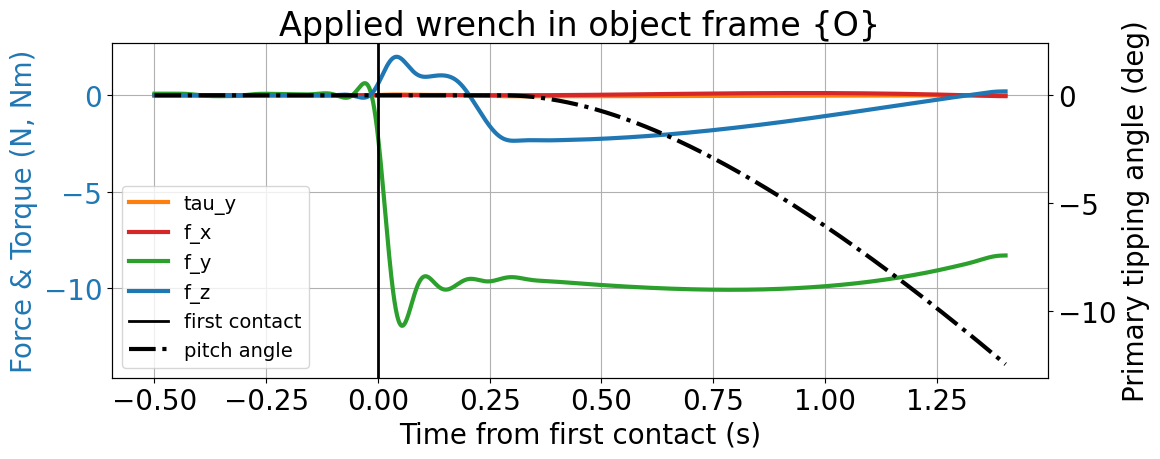
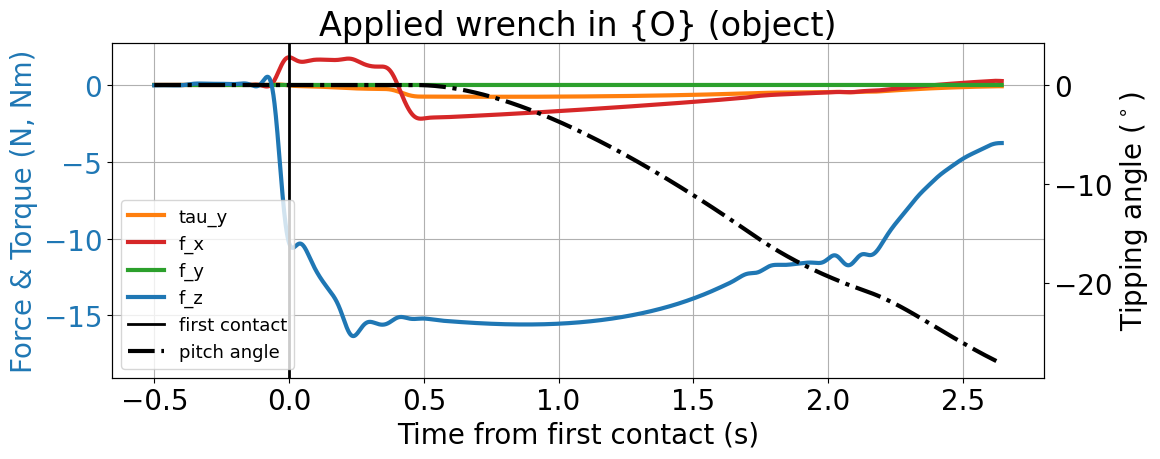
Refactor code structure for improved readability and maintainability

diff --git a/src/mujoco_irb120/common/com_estimation.py b/src/mujoco_irb120/common/com_estimation.py
@@ -1,133 +1,113 @@
 import numpy as np
-from .helper_fns import axisangle2rot, rotvec_to_rot, vec_to_unit, VecToso3
+from .helper_fns import axisangle2rot, rotvec_to_rot, Adjoint, TransInv
 
-def get_AdT_sensor_O(rot_vecs_B, p_sensor_B, p_obj_B, R_sensor_B=None):
-    """
-    Compute adjoint transform that maps a wrench from sensor frame {S} to object frame {O}.
+# def get_AdT_sensor_O(T_B_sensor: np.ndarray, T_B_obj: np.ndarray) -> np.ndarray:
+#     """
+#     Compute the batched adjoint Ad(T_O_S) that maps a wrench from sensor frame {S}
+#     to object frame {O}.
 
-    {O}, {B}, {S} are object, robot base/table/world, and sensor frames, respectively.
+#     T_B_sensor: (N,4,4) homogeneous transforms of the sensor in world frame
+#     T_B_obj:    (N,4,4) homogeneous transforms of the object in world frame
 
-    For a wrench w = [f; tau], the transformation is:
-        f_O   = R_O_S @ f_S
-        tau_O = [p_S_O]_x @ (R_O_S @ f_S) + R_O_S @ tau_S
+#     Returns: (N,6,6) adjoint matrices  Ad(T_O_S)
+#     """
+#     T_O_S = TransInv(T_B_obj) @ T_B_sensor   # (N,4,4) sensor pose in object frame
+#     return Adjoint(T_O_S)                     # (N,6,6)
 
-    giving the 6x6 matrix (Modern Robotics / standard convention):
-        Ad(T_O_S) = | R_O_S           0     |
-                    | [p_S_O]_x R_O_S  R_O_S |
-
-    where R_O_S = R_B_O.T @ R_B_S  maps vectors from {S} into {O},
-    and p_S_O is the origin of {S} expressed in {O}.
-
-    rot_vecs_B: (N,3) axis-angle rotation vectors of the object in world frame
-    p_sensor_B: (N,3) sensor origin positions in world frame
-    p_obj_B:    (N,3) object origin positions in world frame
-    R_sensor_B: (N,3,3) sensor orientation in world frame (world <- sensor columns).
-                If None, sensor axes are assumed aligned with the world frame.
-    """
-    R_B_O = rotvec_to_rot(rot_vecs_B)       # (N,3,3) world <- object
-    R_O_B = R_B_O.transpose(0, 2, 1)        # (N,3,3) object <- world  (R_B_O^T)
-
-    if R_sensor_B is None:
-        # Sensor frame coincides with world frame
-        R_O_S = R_O_B
-    else:
-        # R_O_S = R_O_B @ R_B_S : sensor-frame vectors -> world -> object
-        R_O_S = np.einsum('nij,njk->nik', R_O_B, R_sensor_B)  # (N,3,3)
-
-    # Position of sensor origin expressed in object frame
-    p_S_O = np.einsum('nij,nj->ni', R_O_B, p_sensor_B - p_obj_B)  # (N,3)
-
-    AdT_S_O = np.zeros((rot_vecs_B.shape[0], 6, 6))
-    # Upper-left:  R_O_S  (rotate force from {S} to {O})
-    AdT_S_O[:, :3, :3] = R_O_S
-    # Lower-right: R_O_S  (rotate torque from {S} to {O})
-    AdT_S_O[:, 3:, 3:] = R_O_S
-    # Lower-left:  [p_S_O]_x R_O_S  (couple term: moment arm shift)
-    AdT_S_O[:, 3:, :3] = np.einsum('nij,njk->nik', VecToso3(p_S_O), R_O_S)
-    return AdT_S_O
 
 def model_bkwd_wrench(
     w_meas_S: np.ndarray,
-    adT_sensor_O: np.ndarray,
+    T_B_sensor: np.ndarray,
+    T_B_obj: np.ndarray,
     p_finger_O: np.ndarray,
-):
+) -> np.ndarray:
     """
-    Compute 'backward' applied wrench [F; tau] IN OBJECT FRAME
-    {O}, {B}, {S} are object, robot base/table/world, and sensor frames, respectively.
+    Compute the 'backward' applied wrench [f; tau] in object frame {O}.
 
-    w_meas_S: (N,6) array of measured wrenches in sensor frame (F_x, F_y, F_z, tau_x, tau_y, tau_z)
-    adT_sensor_O: (N,6,6) array of adjoint transforms from object frame to sensor frame
-    p_finger_O: (3,) position of finger in object frame
+    {O}, {B}, {S} are object, world/base, and sensor frames respectively.
+
+    w_meas_S:   (N,6) measured wrenches in {S}  [fx fy fz tx ty tz]
+    T_B_sensor: (N,4,4) sensor poses in world frame
+    T_B_obj:    (N,4,4) object poses in world frame
+    p_finger_O: (N,3) or (3,) contact-point position in {O}
     """
-    # Transform measured wrench from sensor frame to object frame.
-    w_meas_O = np.einsum('nij,nj->ni', adT_sensor_O, w_meas_S)
+    # First get sensor pose in object frame, then get corresponding AdT
+    T_O_S = TransInv(T_B_obj) @ T_B_sensor   # (N,4,4) sensor pose in object frame
+    AdT_S_O = Adjoint(T_O_S)          # (N,6,6)
+    w_meas_O = np.einsum('nij,nj->ni', AdT_S_O, w_meas_S)    # (N,6) wrench in {O}
 
-    ## CONSTRUCT APPLIED WRENCH IN OBJECT FRAME
-    f_app_O = -w_meas_O[:, :3]
-    t_app_O = np.cross(p_finger_O, f_app_O)  # Torque applied ON object by finger is r_o_to_finger x f_app
-    w_app_O = np.hstack((f_app_O, t_app_O))  # (N,6) applied wrench on object frame
-    return w_app_O
+    f_app_O  = -w_meas_O[:, :3]                               # Newton's 3rd law
+    t_app_O  = np.cross(p_finger_O, f_app_O)                  # r × f about object origin
+    w_app_O = np.hstack((f_app_O, t_app_O))                      # (N,6)
+
+    return -w_meas_O
 
 
 def model_fwd_wrench(
-        rot_vecs: np.ndarray,
+        rot_vecs_B: np.ndarray,
         p_c_O: np.ndarray,
         mass: float,
         mu_table: float,
-        rob_vel_B: np.ndarray = None,
-        w_app_O: np.ndarray = None
+        w_O_app: np.ndarray = None
 ):
     """
     Compute 'forward' gravity + ground reaction wrench [F; tau] IN OBJECT FRAME
     {O}, {B}, {S} are object, robot base/table/world, and sensor frames, respectively.
 
     rot_vecs: (N,3) array of axis-angle rotation vectors (angle in radians)
-    w_app_O: (N,6) array of applied wrenches in object frame (F_x, F_y, F_z, tau_x, tau_y, tau_z)
-    adT_sensor_O: (N,4,4) array of adjoint transforms from object frame to sensor frame
-    rob_vel_B: (N,3) array of robot/finger velocities in robot base/world frame (v_x, v_y, v_z)
-    w_app_O: (N,6) array of applied wrenches in object frame (F_x, F_y, F_z, tau_x, tau_y, tau_z)
+    w_O_app: (N,6) array of applied wrenches in object frame (F_x, F_y, F_z, tau_x, tau_y, tau_z)
 
     p_c_O: (3,) position of object CoM in object frame
     mass: scalar mass of the object
     mu_table: scalar friction coefficient of the table
     N_table: scalar normal force magnitude from the table
     """
-    rot_vecs = np.asarray(rot_vecs, dtype=float)
-    R_B = rotvec_to_rot(rot_vecs)  # (N,3,3) object rotation in world frame
+    rot_vecs_B = np.asarray(rot_vecs_B, dtype=float)
+    R_B = rotvec_to_rot(rot_vecs_B)  # (N,3,3) object rotation in world frame
     R_B_T = R_B.transpose(0, 2, 1)  # (N,3b,3a) Transpose for inverse rotation (swaps correctly each 3x3 block)
     g_B = np.array([0, 0, -9.81])  # gravity in world/robot/table frame
-    if rob_vel_B is not None and rob_vel_B.shape != (rot_vecs.shape[0], 3):
-        if rot_vecs.shape[0] == 1 and rob_vel_B.shape == (3,):
-            rob_vel_B = rob_vel_B.reshape(1, 3)
+    n_samples = rot_vecs_B.shape[0]
+
+    if w_O_app is None:
+        f_O_app = np.zeros((n_samples, 3), dtype=float)
+    else:
+        w_O_app = np.asarray(w_O_app, dtype=float)
+        if w_O_app.ndim == 1 and w_O_app.shape[0] == 6:
+            w_O_app = w_O_app.reshape(1, 6)
+        f_O_app = w_O_app[:, :3]
         
     ## CONSTRUCT GRAVITY WRENCH IN OBJECT FRAME
-    f_grav_B = mass * g_B                           # (3,) gravity force in world/robot/table frame
-    f_grav_O = R_B_T @ f_grav_B                     # (N,3) gravity force in object frame
-    tau_grav_O = np.cross(p_c_O, f_grav_O)          # (N,3) gravity torque in object frame about CoM
-    w_grav_O = np.hstack((f_grav_O, tau_grav_O))    # (N,6) gravity wrench in object frame
+    f_B_grav = mass * g_B                           # (3,) gravity force in world/robot/table frame
+    f_O_grav = R_B_T @ f_B_grav                     # (N,3) gravity force in object frame
+    tau_O_grav = np.cross(p_c_O, f_O_grav)          # (N,3) gravity torque in object frame about CoM
+    w_O_grav = np.hstack((f_O_grav, tau_O_grav))    # (N,6) gravity wrench in object frame
 
     ## CONSTRUCT GROUND REACTION WRENCH IN OBJECT FRAME
-    # 1. Get normal force in object frame (always +z in base/world frame)
-    f_norm_O = -f_grav_O                                        # (N,3) normal force in world/robot/table frame (assumes object is not accelerating in z, so normal force balances gravity)
-    f_norm_O -= w_app_O[:,:3] if w_app_O is not None else 0     # (N,3) subtract applied force from normal force if provided (assumes applied force is in object frame)
-    N_table_val = np.linalg.norm(f_norm_O, axis=1)              # (N,) magnitude of normal force
+    # 1. Get table normal force in object frame from force balance along table normal.
+    n_B_table = np.array([0.0, 0.0, 1.0])
+    n_O_table = np.einsum('nij,j->ni', R_B_T, n_B_table)  # (N,3)
+    f_O_ext = f_O_grav + f_O_app # (N,3) total external force on object in object frame
+    N_table_val = np.maximum(0.0, -np.einsum('ni,ni->n', f_O_ext, n_O_table)) # (N,) NOTE: negate ext force
+    f_O_norm = np.einsum('n,ni->ni', N_table_val, n_O_table) # (N,3) table normal force vector in object frame
 
-    # 2. Get friction force in object frame (opposes finger vel in world frame)
-    dir_fric_B = np.zeros_like(rot_vecs) if rob_vel_B is None else -vec_to_unit(rob_vel_B)
-    #^^^^^^^^^ (N,3) unit vector in direction of friction force (opposite of velocity)
-    # (('nij' is A (N,3,3) 'nj' is B (N,3) -> 'ni' is (N,3)  ---> 'n' iterated for mult. 'j' matches dot prod rules, 'i' is remaining axis))
-    dir_fric_O = np.einsum('nij,nj->ni', R_B_T, dir_fric_B)     # (N,3) direction of friction force in object frame
-    f_fr_O = np.einsum('n,ni->ni', mu_table * N_table_val, dir_fric_O) # (N,3) friction force in sensor/world frame
+    # 2. Friction opposes the applied tangential force direction (Coulomb magnitude mu*N).
+    # Extract tangential component of APPLIED force only (not total external force including gravity)
+    f_O_app_tan = f_O_app - np.einsum('ni,ni->n', f_O_app, n_O_table)[:, None] * n_O_table
+    tan_norm = np.linalg.norm(f_O_app_tan, axis=1, keepdims=True)
+    dir_fric_O = np.zeros_like(f_O_app_tan)
+    valid = tan_norm[:, 0] > 1e-12
+    dir_fric_O[valid] = -f_O_app_tan[valid] / tan_norm[valid]
+    f_O_fr = np.einsum('n,ni->ni', mu_table * N_table_val, dir_fric_O)
     
     # 3. Finish construction; ground cannot apply torque to object (explicit force)
-    f_ground_O = f_norm_O + f_fr_O                              # (N,3) total ground reaction force in object frame
-    t_ground_O = np.zeros_like(f_ground_O)                      # (N,3) ground reaction torque in object frame (assumed zero since ground cannot apply torque)
-    w_ground_O = np.hstack((f_ground_O, t_ground_O))            # (N,6) ground reaction wrench in object frame
+    f_O_ground = f_O_norm + f_O_fr                              # (N,3) total ground reaction force in object frame
+    t_O_ground = np.zeros_like(f_O_ground)                      # (N,3) ground reaction torque in object frame (assumed zero since ground cannot apply torque)
+    w_O_ground = np.hstack((f_O_ground, t_O_ground))            # (N,6) ground reaction wrench in object frame
 
     # print("\nGravity wrench in object frame:\n", w_grav_O)
-    # print("Ground reaction wrench in object frame:\n", w_ground_O)
+    # print("Ground reaction wrench in object frame:\n", w_O_ground)
     
-    return w_grav_O, w_ground_O
+    return w_O_grav, w_O_ground
 
 # ============================================================================== #
 # ========================= OLD MODELS  ========================= #

diff --git a/src/mujoco_irb120/common/plotting_helper.py b/src/mujoco_irb120/common/plotting_helper.py
@@ -9,6 +9,69 @@ import matplotlib.pyplot as plt
 
 from .com_estimation import align_zeros
 
+def plot_3vec_vs_angle(
+    vec_xyz: np.ndarray,
+    pitch_rad: Optional[np.ndarray] = None,
+    *,
+    vec_labels: Sequence[str] = ("tau_x", "tau_y", "tau_z"),
+    x_label: str = "Tipping angle ||$^\circ$||",
+    y_label: str = "Torque (Nm)",
+    contact_time: float = 0.0,
+    figsize: Tuple[float, float] = (12, 5),
+    legend_fontsize: int = 13,
+    line_width: float = 3.0,
+    title: Optional[str] = None,
+    show: bool = True,
+):
+    """Plot wrench channels with optional pitch-angle overlay.
+
+    Args:
+        vec_xyz: Vector channels of shape (N,3).
+        pitch_rad: Optional tipping angle history in radians, shape (N,).
+        vec_labels: Legend labels for vector x/y/z curves.
+        y_label: Left-axis y-label text.
+        contact_time: X-location (s) for the vertical contact marker.
+        figsize: Matplotlib figure size.
+        legend_fontsize: Combined legend font size.
+        line_width: Shared line width for plotted curves.
+        show: If True, call plt.show().
+        title: Optional title for the plot.
+
+    Returns:
+        fig, ax1
+    """
+    vec_xyz = np.asarray(vec_xyz)
+    if vec_xyz.ndim != 2 or vec_xyz.shape[1] != 3:
+        raise ValueError(
+            f"Expected vec_xyz with shape (N, 3), got {vec_xyz.shape}"
+        )
+    if len(vec_labels) != 3:
+        raise ValueError("vec_labels must contain exactly 3 entries")
+    
+    pitch_deg = abs(np.rad2deg(pitch_rad) if pitch_rad is not None else None)
+
+    fig, ax1 = plt.subplots(figsize=figsize)
+    ax1.plot(pitch_deg, vec_xyz[:, 0], color="tab:pink", linewidth=line_width, label=vec_labels[0])
+    ax1.plot(pitch_deg, vec_xyz[:, 1], color="tab:olive", linewidth=line_width, label=vec_labels[1])
+    ax1.plot(pitch_deg, vec_xyz[:, 2], color="tab:cyan", linewidth=line_width, label=vec_labels[2])
+
+    # ax1.axvline(contact_time, color="k", linestyle="-", linewidth=2, label="first contact")
+    ax1.set_xlabel(x_label, color="k")
+    ax1.set_ylabel(y_label, color="tab:blue")
+    ax1.tick_params(axis="y", labelcolor="tab:blue")
+    ax1.grid(True)
+
+    ax1.legend(loc="best", fontsize=legend_fontsize)
+
+    if title is not None:
+        plt.title(title)
+
+    plt.tight_layout()
+    if show:
+        plt.show()
+
+    return fig, ax1
+
 
 def plot_wrench_and_tipping(
     t: np.ndarray,
@@ -21,7 +84,7 @@ def plot_wrench_and_tipping(
     y_label: str = "Force & Torque (N, Nm)",
     contact_time: float = 0.0,
     figsize: Tuple[float, float] = (12, 5),
-    legend_fontsize: int = 14,
+    legend_fontsize: int = 13,
     line_width: float = 3.0,
     title: Optional[str] = None,
     show: bool = True,
@@ -88,12 +151,12 @@ def plot_wrench_and_tipping(
             linestyle="-.",
             label="pitch angle",
         )
-        ax2.set_ylabel("Primary tipping angle (deg)", color="black")
+        ax2.set_ylabel("Tipping angle ($^\circ$)", color="black")
         ax2.tick_params(axis="y", labelcolor="black")
 
         lines1, labels1 = ax1.get_legend_handles_labels()
         lines2, labels2 = ax2.get_legend_handles_labels()
-        ax1.legend(lines1 + lines2, labels1 + labels2, loc="best", fontsize=legend_fontsize)
+        ax1.legend(lines1 + lines2, labels1 + labels2, loc="lower left", fontsize=legend_fontsize)
         align_zeros([ax1, ax2])
     else:
         ax1.legend(loc="best", fontsize=legend_fontsize)

diff --git a/src/mujoco_irb120/common/helper_fns.py b/src/mujoco_irb120/common/helper_fns.py
@@ -562,12 +562,12 @@ def TransToRp(T):
     return T[0: 3, 0: 3], T[0: 3, 3]
 
 def TransInv(T):
-    """Inverts a homogeneous transformation matrix
+    """Inverts a homogeneous transformation matrix.
 
-    :param T: A homogeneous transformation matrix
-    :return: The inverse of T
-    Uses the structure of transformation matrices to avoid taking a matrix
-    inverse, for efficiency.
+    Accepts a single (4,4) matrix or a batch (N,4,4).
+
+    :param T: (4,4) or (N,4,4) homogeneous transformation matrix/matrices
+    :return:  Inverse(s) with the same shape as T
 
     Example input:
         T = np.array([[1, 0,  0, 0],
@@ -580,9 +580,20 @@ def TransInv(T):
                   [0, -1, 0,  0],
                   [0,  0, 0,  1]])
     """
-    R, p = TransToRp(T)
-    Rt = np.array(R).T
-    return np.r_[np.c_[Rt, -np.dot(Rt, p)], [[0, 0, 0, 1]]]
+    T = np.asarray(T, dtype=float)
+    if T.ndim == 2:
+        R, p = TransToRp(T)
+        Rt = R.T
+        return np.r_[np.c_[Rt, -Rt @ p], [[0, 0, 0, 1]]]
+    # Batched: T is (N,4,4)
+    R  = T[:, :3, :3]                              # (N,3,3)
+    p  = T[:, :3,  3]                              # (N,3)
+    Rt = R.transpose(0, 2, 1)                      # (N,3,3)
+    Tinv = np.zeros_like(T)
+    Tinv[:, :3, :3] = Rt
+    Tinv[:, :3,  3] = -np.einsum('nij,nj->ni', Rt, p)
+    Tinv[:,  3,  3] = 1.0
+    return Tinv
 
 def VecTose3(V):
     """Converts a spatial velocity vector into a 4x4 matrix in se3
@@ -619,11 +630,12 @@ def se3ToVec(se3mat):
                  [se3mat[0][3], se3mat[1][3], se3mat[2][3]]]
 
 def Adjoint(T):
-    """Computes the adjoint representation of a homogeneous transformation
-    matrix
+    """Computes the adjoint representation of a homogeneous transformation matrix.
 
-    :param T: A homogeneous transformation matrix
-    :return: The 6x6 adjoint representation [AdT] of T
+    Accepts a single (4,4) matrix or a batch (N,4,4).
+
+    :param T: (4,4) or (N,4,4) homogeneous transformation matrix/matrices
+    :return:  (6,6) or (N,6,6) adjoint representation [AdT] of T
 
     Example Input:
         T = np.array([[1, 0,  0, 0],
@@ -638,9 +650,19 @@ def Adjoint(T):
                   [3, 0,  0, 0, 0, -1],
                   [0, 0,  0, 0, 1,  0]])
     """
-    R, p = TransToRp(T)
-    return np.r_[np.c_[R, np.zeros((3, 3))],
-                 np.c_[np.dot(VecToso3(p), R), R]]
+    T = np.asarray(T, dtype=float)
+    if T.ndim == 2:
+        R, p = TransToRp(T)
+        return np.r_[np.c_[R, np.zeros((3, 3))],
+                     np.c_[np.dot(VecToso3(p), R), R]]
+    # Batched: T is (N,4,4)
+    R = T[:, :3, :3]                               # (N,3,3)
+    p = T[:, :3,  3]                               # (N,3)
+    AdT = np.zeros((T.shape[0], 6, 6))
+    AdT[:, :3, :3] = R
+    AdT[:, 3:, 3:] = R
+    AdT[:, 3:, :3] = np.einsum('nij,njk->nik', VecToso3(p), R)
+    return AdT
 
 def ScrewToAxis(q, s, h):
     """Takes a parametric description of a screw axis and converts it to a